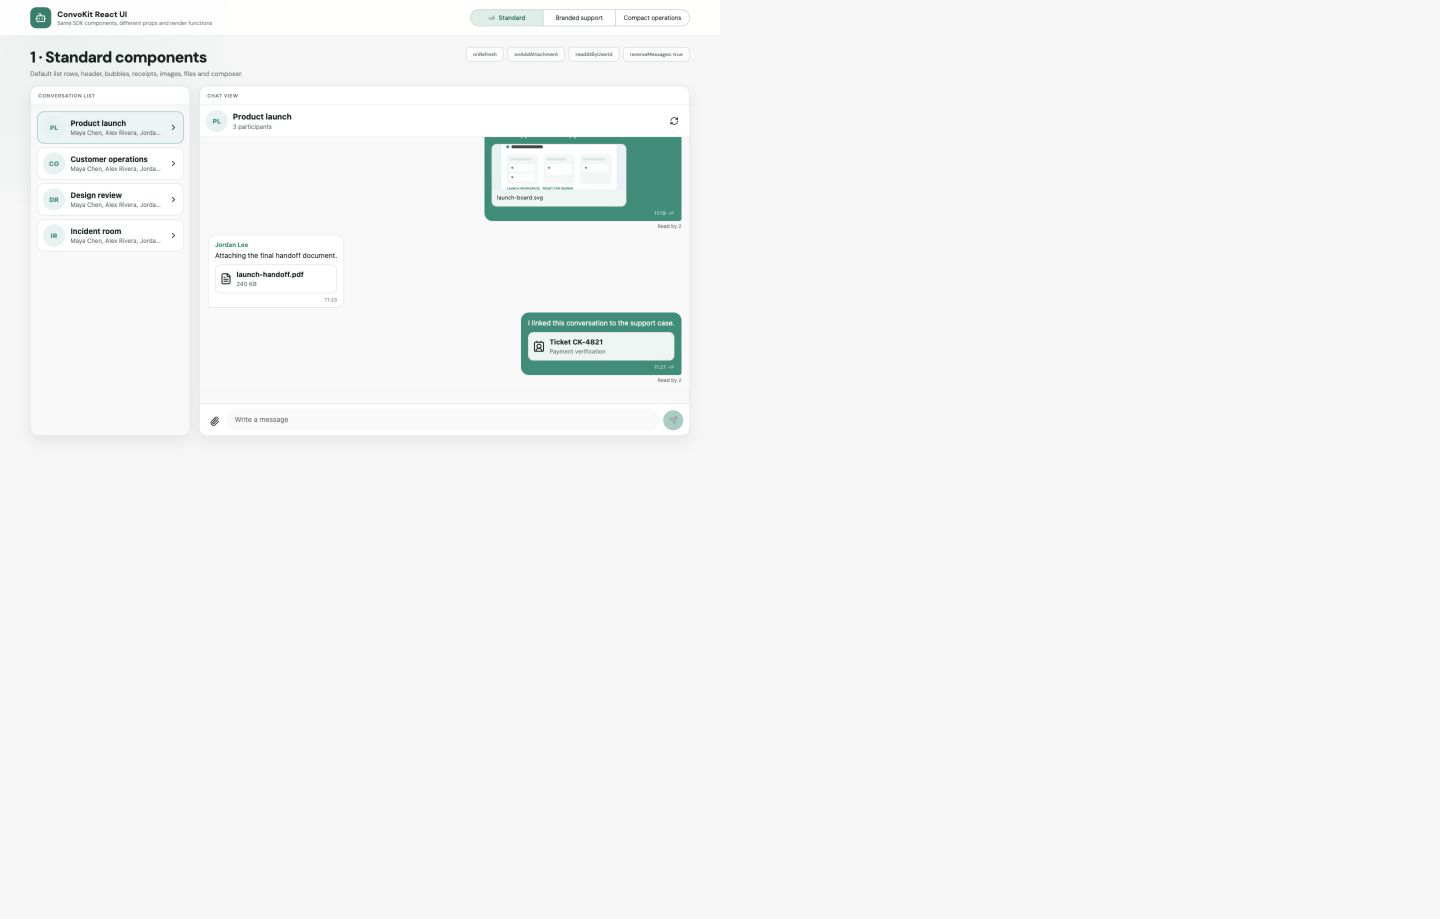
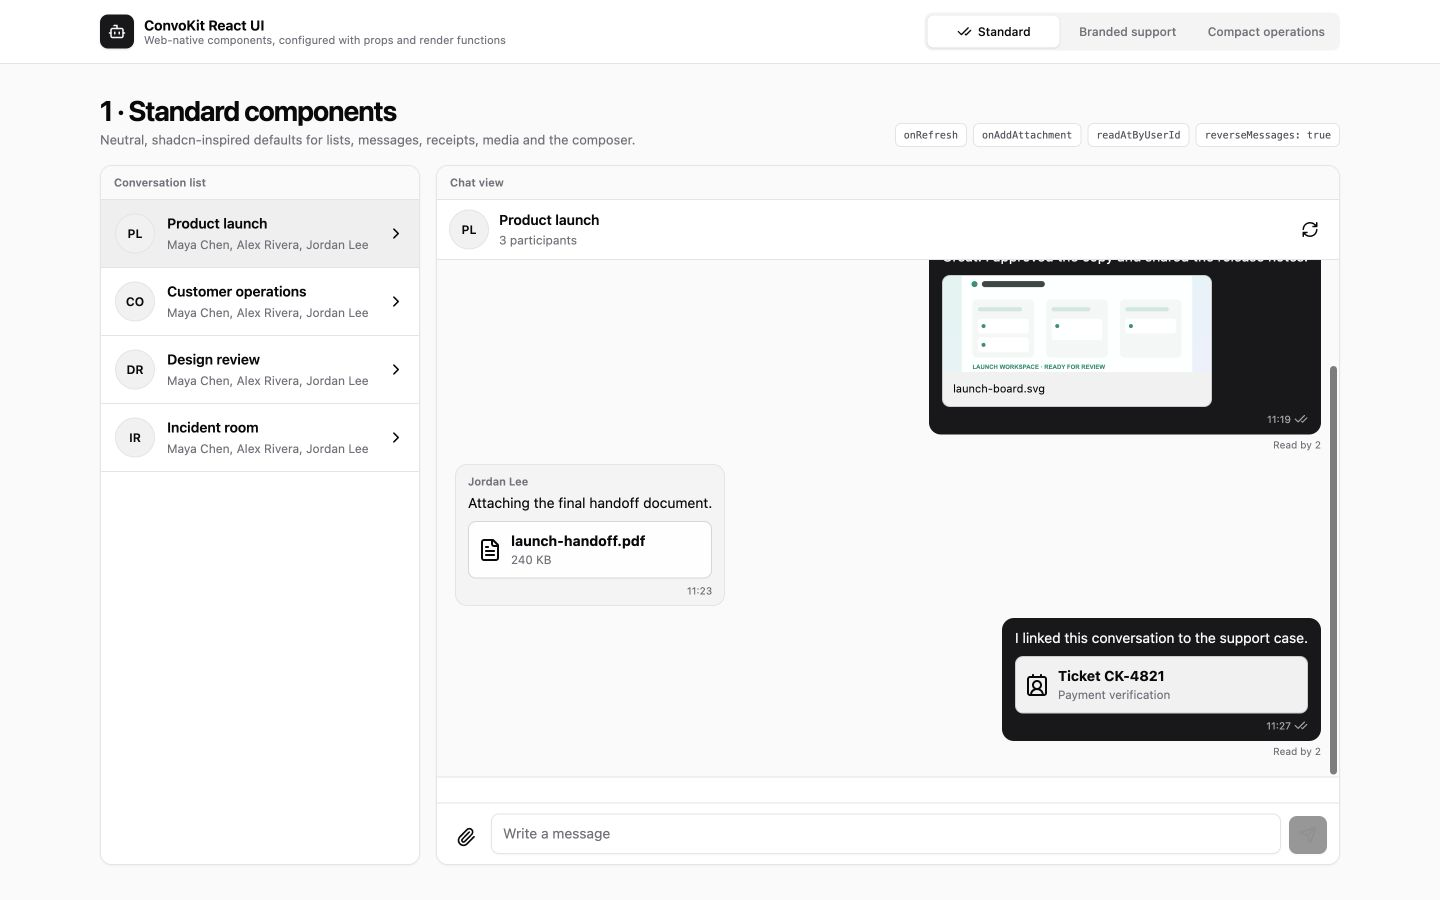
feat: showcase web-native React components

diff --git a/src/styles.css b/src/styles.css
@@ -1,9 +1,7 @@
-@import url('https://fonts.googleapis.com/css2?family=DM+Sans:wght@400;500;600;700&display=swap');
-
 :root {
-  color: #17211f;
-  background: #f4f6f5;
-  font-family: 'DM Sans', system-ui, sans-serif;
+  color: #09090b;
+  background: #fafafa;
+  font-family: ui-sans-serif, system-ui, -apple-system, BlinkMacSystemFont, "Segoe UI", sans-serif;
   font-synthesis: none;
   text-rendering: optimizeLegibility;
 }
@@ -13,106 +11,94 @@ body { margin: 0; min-width: 320px; min-height: 100vh; }
 button, input { font: inherit; }
 button { color: inherit; }
 
-.showcase {
-  min-height: 100vh;
-  padding: 0 4.2vw 48px;
-  background:
-    radial-gradient(circle at 8% 7%, rgba(20, 143, 120, .055), transparent 23%),
-    #f5f7f6;
-}
-
-.showcase__header {
-  display: flex;
-  align-items: center;
-  justify-content: space-between;
-  min-height: 72px;
-  margin-inline: -4.2vw;
-  padding-inline: 4.2vw;
-  border-bottom: 1px solid #e5e9e7;
-  background: rgba(255, 255, 255, .92);
-}
-
-.brand { display: flex; align-items: center; gap: 12px; }
-.brand__mark { display: grid; width: 42px; height: 42px; place-items: center; border-radius: 12px; background: #147f6b; color: white; }
-.brand__mark svg { width: 23px; }
+.showcase { min-height: 100vh; padding: 0 max(24px, calc((100vw - 1240px) / 2)) 48px; background: #fafafa; }
+.showcase__header { display: flex; align-items: center; justify-content: space-between; min-height: 64px; margin-inline: min(-24px, calc((1240px - 100vw) / 2)); padding-inline: max(24px, calc((100vw - 1240px) / 2)); border-bottom: 1px solid #e4e4e7; background: rgba(255,255,255,.94); backdrop-filter: blur(12px); }
+.brand { display: flex; align-items: center; gap: 10px; }
+.brand__mark { display: grid; width: 34px; height: 34px; place-items: center; border-radius: 8px; background: #18181b; color: #fafafa; box-shadow: 0 1px 2px rgb(0 0 0/.12); }
+.brand__mark svg { width: 18px; }
 .brand > span:last-child { display: grid; }
-.brand strong { font-size: 16px; }
-.brand small { color: #77827f; font-size: 11px; }
+.brand strong { font-size: 14px; font-weight: 650; letter-spacing: -.01em; }
+.brand small { color: #71717a; font-size: 11px; }
 
-.variant-tabs { display: flex; overflow: hidden; border: 1px solid #aeb8b5; border-radius: 999px; background: white; }
-.variant-tabs button { display: flex; align-items: center; justify-content: center; gap: 6px; min-width: 145px; padding: 8px 16px; border: 0; border-right: 1px solid #aeb8b5; background: transparent; cursor: pointer; font-size: 12px; }
-.variant-tabs button:last-child { border-right: 0; }
-.variant-tabs button[data-active] { background: #dceee9; color: #176f60; font-weight: 600; }
-.showcase--branded .variant-tabs button[data-active] { background: #e9e2fb; color: #5b4297; }
+.variant-tabs { display: inline-flex; align-items: center; gap: 2px; padding: 3px; border-radius: 8px; background: #f4f4f5; color: #71717a; }
+.variant-tabs button { display: inline-flex; align-items: center; justify-content: center; gap: 6px; min-width: 132px; min-height: 32px; padding: 6px 12px; border: 0; border-radius: 6px; background: transparent; cursor: pointer; font-size: 12px; font-weight: 500; }
+.variant-tabs button:hover { color: #18181b; }
+.variant-tabs button[data-active] { background: #fff; color: #09090b; box-shadow: 0 1px 2px rgb(0 0 0/.08), 0 0 0 1px rgb(0 0 0/.03); }
 
-.showcase__intro { display: flex; align-items: flex-start; justify-content: space-between; gap: 30px; padding: 22px 0 16px; }
-.showcase__intro h1 { margin: 0; font-size: clamp(22px, 2.2vw, 31px); letter-spacing: -.03em; }
-.showcase__intro p { margin: 4px 0 0; color: #6f7a77; font-size: 13px; }
-.prop-badges { display: flex; flex-wrap: wrap; justify-content: flex-end; gap: 7px; max-width: 58%; }
-.prop-badges code { padding: 7px 13px; border: 1px solid #ccd5d2; border-radius: 8px; background: rgba(255,255,255,.65); color: #60706b; font: 500 10px 'DM Sans', sans-serif; }
-.showcase--branded .prop-badges code { border-color: #d9d0ef; background: #fbf9ff; color: #6b5997; }
+.showcase__intro { display: flex; align-items: flex-end; justify-content: space-between; gap: 32px; padding: 30px 0 18px; }
+.showcase__intro h1 { margin: 0; font-size: clamp(22px, 2vw, 28px); font-weight: 650; letter-spacing: -.035em; }
+.showcase__intro p { margin: 5px 0 0; color: #71717a; font-size: 13px; }
+.prop-badges { display: flex; flex-wrap: wrap; justify-content: flex-end; gap: 6px; max-width: 56%; }
+.prop-badges code { padding: 5px 8px; border: 1px solid #e4e4e7; border-radius: 6px; background: #fff; color: #52525b; font: 500 10px ui-monospace, SFMono-Regular, Menlo, monospace; }
 
-.component-grid { display: grid; grid-template-columns: minmax(260px, 320px) minmax(0, 1fr); gap: 18px; height: min(700px, calc(100vh - 172px)); min-height: 520px; }
-.component-card { display: flex; min-width: 0; min-height: 0; flex-direction: column; overflow: hidden; border: 1px solid #d8dedc; border-radius: 15px; background: white; box-shadow: 0 12px 28px rgba(28, 42, 38, .08); }
-.component-label { flex: 0 0 auto; padding: 12px 15px; border-bottom: 1px solid #d8dedc; color: #77817e; font-size: 10px; font-weight: 700; letter-spacing: .08em; text-transform: uppercase; }
-.component-card > .ckui { flex: 1; border: 0; border-radius: 0; }
-
+.component-grid { display: grid; grid-template-columns: minmax(270px, 320px) minmax(0,1fr); gap: 16px; height: min(700px, calc(100vh - 166px)); min-height: 520px; }
+.component-card { display: flex; min-width: 0; min-height: 0; flex-direction: column; overflow: hidden; border: 1px solid #e4e4e7; border-radius: 12px; background: #fff; box-shadow: 0 1px 2px rgb(0 0 0/.04); }
+.component-label { flex: 0 0 auto; padding: 10px 13px; border-bottom: 1px solid #e4e4e7; background: #fafafa; color: #71717a; font-size: 11px; font-weight: 600; }
+.component-card > .ckui { flex: 1; border: 0; border-radius: 0; box-shadow: none; }
 .showcase .ckui-media-card--image { max-width: 270px; }
-.showcase .ckui-media-card--image img { max-height: 90px; }
+.showcase .ckui-media-card--image img { max-height: 96px; }
 
-.branded-row { display: grid; grid-template-columns: 38px minmax(0,1fr) auto; align-items: center; gap: 10px; width: 100%; min-height: 61px; padding: 8px 10px; border: 0; border-radius: 13px; background: rgba(255,255,255,.76); text-align: left; cursor: pointer; }
-.branded-row[data-selected] { background: #eee8ff; }
-.branded-row__avatar { display: grid; width: 38px; height: 38px; place-items: center; border-radius: 999px; background: #6750b4; color: white; }
+.branded-row { position: relative; display: grid; grid-template-columns: 36px minmax(0,1fr) auto; align-items: center; gap: 10px; width: 100%; min-height: 62px; padding: 9px 12px; border: 0; border-bottom: 1px solid #eeeaf5; background: #fff; text-align: left; cursor: pointer; }
+.branded-row:hover { background: #faf9fc; }
+.branded-row[data-selected] { background: #f5f2fb; }
+.branded-row[data-selected]::before { position: absolute; inset-block: 8px; left: 0; width: 3px; border-radius: 0 3px 3px 0; background: #6d45a8; content: ""; }
+.branded-row__avatar { display: grid; width: 36px; height: 36px; place-items: center; border: 1px solid #ddd4eb; border-radius: 8px; background: #f1ecf8; color: #5f388f; font-weight: 650; }
 .branded-row > span:nth-child(2) { display: grid; min-width: 0; }
 .branded-row strong, .branded-row small { overflow: hidden; text-overflow: ellipsis; white-space: nowrap; }
-.branded-row small { color: #817b8e; }
-.branded-row b { display: grid; width: 22px; height: 22px; place-items: center; border-radius: 999px; background: #6750b4; color: white; font-size: 11px; }
+.branded-row strong { font-size: 13px; font-weight: 600; }
+.branded-row small { color: #787181; font-size: 11px; }
+.branded-row b { display: grid; min-width: 20px; height: 20px; padding-inline: 5px; place-items: center; border-radius: 6px; background: #6d45a8; color: #fff; font-size: 10px; }
 
-.branded-header { display: grid; grid-template-columns: 38px minmax(0,1fr) auto; align-items: center; gap: 10px; min-height: 64px; padding: 9px 15px; background: #2d2341; color: white; }
-.branded-header > span { display: grid; width: 38px; height: 38px; place-items: center; border-radius: 999px; background: #e8e0ff; color: #6548ad; }
+.branded-header { display: grid; grid-template-columns: 36px minmax(0,1fr) auto; align-items: center; gap: 10px; min-height: 60px; padding: 8px 12px; border-bottom: 1px solid #e5dff0; background: #fff; color: #241c2e; }
+.branded-header > span { display: grid; width: 36px; height: 36px; place-items: center; border: 1px solid #ddd4eb; border-radius: 8px; background: #f1ecf8; color: #6d45a8; }
+.branded-header > span svg { width: 18px; }
 .branded-header > div { display: grid; }
-.branded-header small { color: #c8bfdb; }
-.branded-receipt { display: flex; align-items: center; gap: 4px; color: #756992; font-size: 10px; }
-.ticket-card { display: grid; grid-template-columns: auto minmax(0,1fr) auto; align-items: center; gap: 9px; min-width: 260px; padding: 9px; border-radius: 10px; background: #fff; color: #2b2634; }
+.branded-header strong { font-size: 13px; }
+.branded-header small { color: #7a7184; font-size: 11px; }
+.branded-header > svg { color: #7a7184; }
+.branded-receipt { display: flex; align-items: center; gap: 4px; color: #746781; font-size: 10px; }
+.ticket-card { display: grid; grid-template-columns: auto minmax(0,1fr) auto; align-items: center; gap: 9px; min-width: 260px; padding: 9px; border: 1px solid #e2dbea; border-radius: 8px; background: #fff; color: #2b2634; }
 .ticket-card > span { display: grid; }
 .ticket-card small { color: #807a8b; }
-.ticket-card button { padding: 6px 10px; border: 1px solid #cfc8df; border-radius: 7px; background: #faf8ff; color: #6548ad; font-size: 10px; text-transform: uppercase; }
-.branded-composer { display: flex; align-items: center; gap: 7px; padding: 10px 13px; border-top: 1px solid #e2dcf2; background: white; }
-.branded-composer input { flex: 1; min-width: 0; padding: 10px 13px; border: 0; border-radius: 22px; outline: none; background: #f1eef9; }
-.branded-composer button { border: 0; background: transparent; cursor: pointer; }
-.branded-composer button:last-child { padding: 8px 20px; border-radius: 18px; background: #6548ad; color: white; }
+.ticket-card button { padding: 5px 9px; border: 1px solid #d4c9e3; border-radius: 6px; background: #fff; color: #6548ad; font-size: 10px; font-weight: 600; }
+.branded-composer { display: flex; align-items: center; gap: 7px; padding: 10px 12px; border-top: 1px solid #e5dff0; background: #fff; }
+.branded-composer input { flex: 1; min-width: 0; height: 38px; padding: 8px 11px; border: 1px solid #ddd4e8; border-radius: 8px; outline: none; background: #fff; }
+.branded-composer button { display: grid; min-height: 36px; place-items: center; border: 0; border-radius: 7px; background: transparent; cursor: pointer; }
+.branded-composer button:first-child { width: 36px; color: #6f6878; }
+.branded-composer button:last-child { padding: 7px 15px; background: #6d45a8; color: #fff; font-size: 12px; font-weight: 600; }
 
-.compact-row { display: grid; grid-template-columns: 28px minmax(0,1fr) auto; align-items: center; gap: 8px; width: 100%; padding: 5px 6px; border: 0; background: transparent; text-align: left; cursor: pointer; }
-.compact-row > span { display: grid; width: 26px; height: 26px; place-items: center; border-radius: 999px; background: #e5efec; color: #4d7168; font-size: 9px; }
-.compact-row strong { font-size: 11px; }
-.compact-row > svg { color: #16826f; }
-.compact-header { display: flex; align-items: center; gap: 10px; min-height: 50px; padding: 8px 13px; border-bottom: 1px solid #dce2e0; background: white; }
-.compact-header strong { flex: 1; }
-.compact-header > span { padding: 5px 11px; border: 1px solid #c9d9d4; border-radius: 8px; color: #3b6e62; font-size: 9px; text-transform: uppercase; }
-.compact-message { display: grid; grid-template-columns: 48px minmax(0,1fr) auto; gap: 8px; align-items: baseline; padding: 3px 8px; font-size: 10px; }
-.compact-message strong { color: #4e6962; font-size: 8px; text-transform: uppercase; }
-.compact-message time { color: #8a9491; font-size: 8px; }
-.compact-typing { min-height: 22px; padding: 4px 10px; border-top: 1px solid #d7e5e1; background: #edf5f2; color: #55756d; font-size: 9px; }
-.compact-composer { display: flex; align-items: center; min-height: 48px; padding: 6px 9px; border-top: 1px solid #dce2e0; background: white; }
-.compact-composer input { flex: 1; border: 0; outline: none; }
-.compact-composer button { display: grid; width: 36px; height: 36px; place-items: center; border: 0; border-radius: 999px; background: #177d69; color: white; cursor: pointer; }
-.compact-composer svg { width: 16px; }
+.compact-row { display: grid; grid-template-columns: 26px minmax(0,1fr) auto; align-items: center; gap: 8px; width: 100%; min-height: 38px; padding: 5px 8px; border: 0; border-bottom: 1px solid #e4e4e7; background: #fff; text-align: left; cursor: pointer; }
+.compact-row:hover { background: #fafafa; }
+.compact-row > span { display: grid; width: 26px; height: 26px; place-items: center; border: 1px solid #e4e4e7; border-radius: 6px; background: #f4f4f5; color: #52525b; font-size: 9px; }
+.compact-row strong { font-size: 11px; font-weight: 600; }
+.compact-row > svg { color: #16a34a; }
+.compact-header { display: flex; align-items: center; gap: 9px; min-height: 48px; padding: 7px 11px; border-bottom: 1px solid #e4e4e7; background: #fff; }
+.compact-header strong { flex: 1; font-size: 12px; }
+.compact-header > span { padding: 3px 7px; border: 1px solid #bbf7d0; border-radius: 6px; background: #f0fdf4; color: #15803d; font-size: 9px; font-weight: 600; }
+.compact-message { display: grid; grid-template-columns: 48px minmax(0,1fr) auto; gap: 8px; align-items: baseline; padding: 4px 8px; border-bottom: 1px solid #f1f1f2; font-size: 10px; }
+.compact-message strong { color: #52525b; font-size: 9px; font-weight: 600; }
+.compact-message time { color: #a1a1aa; font-size: 8px; }
+.compact-typing { min-height: 23px; padding: 4px 10px; border-top: 1px solid #e4e4e7; background: #fafafa; color: #71717a; font-size: 9px; }
+.compact-composer { display: flex; align-items: center; gap: 7px; min-height: 48px; padding: 6px 8px; border-top: 1px solid #e4e4e7; background: #fff; }
+.compact-composer input { flex: 1; height: 34px; padding-inline: 9px; border: 1px solid #e4e4e7; border-radius: 7px; outline: none; }
+.compact-composer button { display: grid; width: 34px; height: 34px; place-items: center; border: 0; border-radius: 7px; background: #18181b; color: #fff; cursor: pointer; }
+.compact-composer svg { width: 15px; }
 
-.live-layout { display: grid; grid-template-columns: 320px minmax(0,1fr); gap: 16px; height: 100vh; padding: 16px; }
+.live-layout { display: grid; grid-template-columns: 320px minmax(0,1fr); gap: 16px; height: 100vh; padding: 16px; background: #fafafa; }
 .live-layout aside, .live-layout section { min-height: 0; }
-.live-setup { max-width: 640px; margin: 10vh auto; padding: 28px; }
+.live-setup, .live-room { max-width: 540px; margin: 10vh auto; padding: 24px; border: 1px solid #e4e4e7; border-radius: 10px; background: #fff; box-shadow: 0 1px 2px rgb(0 0 0/.04); }
 .live-setup label, .live-room label { display: grid; gap: 6px; }
-.live-setup input, .live-room input { padding: 10px; }
-.live-setup button, .live-room button { margin-top: 12px; padding: 9px 15px; }
-.live-room { display: grid; max-width: 480px; gap: 8px; margin: 15vh auto; padding: 28px; }
-.live-room p { margin: 0; color: #66736f; line-height: 1.5; }
+.live-setup input, .live-room input { height: 38px; padding: 8px 10px; border: 1px solid #e4e4e7; border-radius: 7px; }
+.live-setup button, .live-room button { margin-top: 12px; padding: 8px 13px; border: 0; border-radius: 7px; background: #18181b; color: #fff; }
+.live-room { display: grid; gap: 8px; }
+.live-room p { margin: 0; color: #71717a; line-height: 1.5; }
 
 @media (max-width: 860px) {
   .showcase { padding-inline: 18px; }
   .showcase__header { align-items: flex-start; flex-direction: column; gap: 12px; margin-inline: -18px; padding: 14px 18px; }
   .variant-tabs { width: 100%; }
   .variant-tabs button { flex: 1; min-width: 0; padding-inline: 8px; }
-  .showcase__intro { flex-direction: column; }
+  .showcase__intro { align-items: flex-start; flex-direction: column; }
   .prop-badges { justify-content: flex-start; max-width: none; }
   .component-grid { grid-template-columns: 1fr; height: auto; }
   .component-card { height: 560px; }
@@ -124,7 +110,7 @@ button { color: inherit; }
 @media (max-width: 520px) {
   .brand small { display: none; }
   .variant-tabs button { font-size: 10px; }
-  .showcase__intro h1 { font-size: 23px; }
-  .prop-badges code { padding: 5px 8px; }
+  .showcase__intro h1 { font-size: 22px; }
+  .prop-badges code { padding: 4px 6px; }
   .component-card--chat { height: 620px; }
 }

diff --git a/src/ShowcaseApp.tsx b/src/ShowcaseApp.tsx
@@ -22,19 +22,19 @@ const details = {
   standard: {
     number: '1',
     title: 'Standard components',
-    description: 'Default list rows, header, bubbles, receipts, images, files and composer.',
+    description: 'Neutral, shadcn-inspired defaults for lists, messages, receipts, media and the composer.',
     props: ['onRefresh', 'onAddAttachment', 'readAtByUserId', 'reverseMessages: true'],
   },
   branded: {
     number: '2',
     title: 'Branded customer support',
-    description: 'A purple support workspace with custom rows, header, ticket, receipt and composer.',
+    description: 'A product-branded support workspace built from the same headless render hooks.',
     props: ['renderConversationItem', 'renderHeader', 'renderMedia', 'renderReadReceipt', 'renderComposer'],
   },
   compact: {
     number: '3',
     title: 'Compact operations view',
-    description: 'Dense list and message rendering for dashboards with limited space.',
+    description: 'A restrained data-dense treatment for web dashboards with limited space.',
     props: ['density: compact', 'renderConversationItem', 'renderMessage', 'renderTypingIndicator', 'stickToBottom: false'],
   },
 } satisfies Record<Variant, { number: string; title: string; description: string; props: string[] }>
@@ -49,10 +49,10 @@ export function ShowcaseApp() {
   const detail = details[variant]
   const theme = variant === 'branded'
     ? {
-        primary: '#6548ad',
-        background: '#f8f6ff',
-        border: '#e2dcf2',
-        outgoingBubble: '#6548ad',
+        primary: '#6d45a8',
+        background: '#fbfaff',
+        border: '#e5dff0',
+        outgoingBubble: '#6d45a8',
       }
     : {}
 
@@ -69,7 +69,7 @@ export function ShowcaseApp() {
         <header className="showcase__header">
           <div className="brand">
             <span className="brand__mark"><Bot aria-hidden="true" /></span>
-            <span><strong>ConvoKit React UI</strong><small>Same SDK components, different props and render functions</small></span>
+            <span><strong>ConvoKit React UI</strong><small>Web-native components, configured with props and render functions</small></span>
           </div>
           <nav className="variant-tabs" aria-label="Component configuration">
             {variants.map((item) => (

diff --git a/README.md b/README.md
@@ -24,14 +24,14 @@ Use the selector to compare configurations, or open `?variant=standard`,
 
 ![Standard ConvoKit React conversation list and chat components](doc/screenshots/standard-components.png)
 
-Package defaults plus refresh, attachment, read-position, image/file rendering,
-and bottom-anchored messages.
+Web-native, shadcn-inspired package defaults plus refresh, attachment,
+read-position, image/file rendering, and bottom-anchored messages.
 
 ### Branded customer support
 
 ![Branded ConvoKit React customer support interface](doc/screenshots/branded-support.png)
 
-A purple support workspace built with `renderConversationItem`, `renderHeader`,
+A restrained product-branded support workspace built with `renderConversationItem`, `renderHeader`,
 `renderMedia`, `renderReadReceipt`, and `renderComposer`.
 
 ### Compact operations
